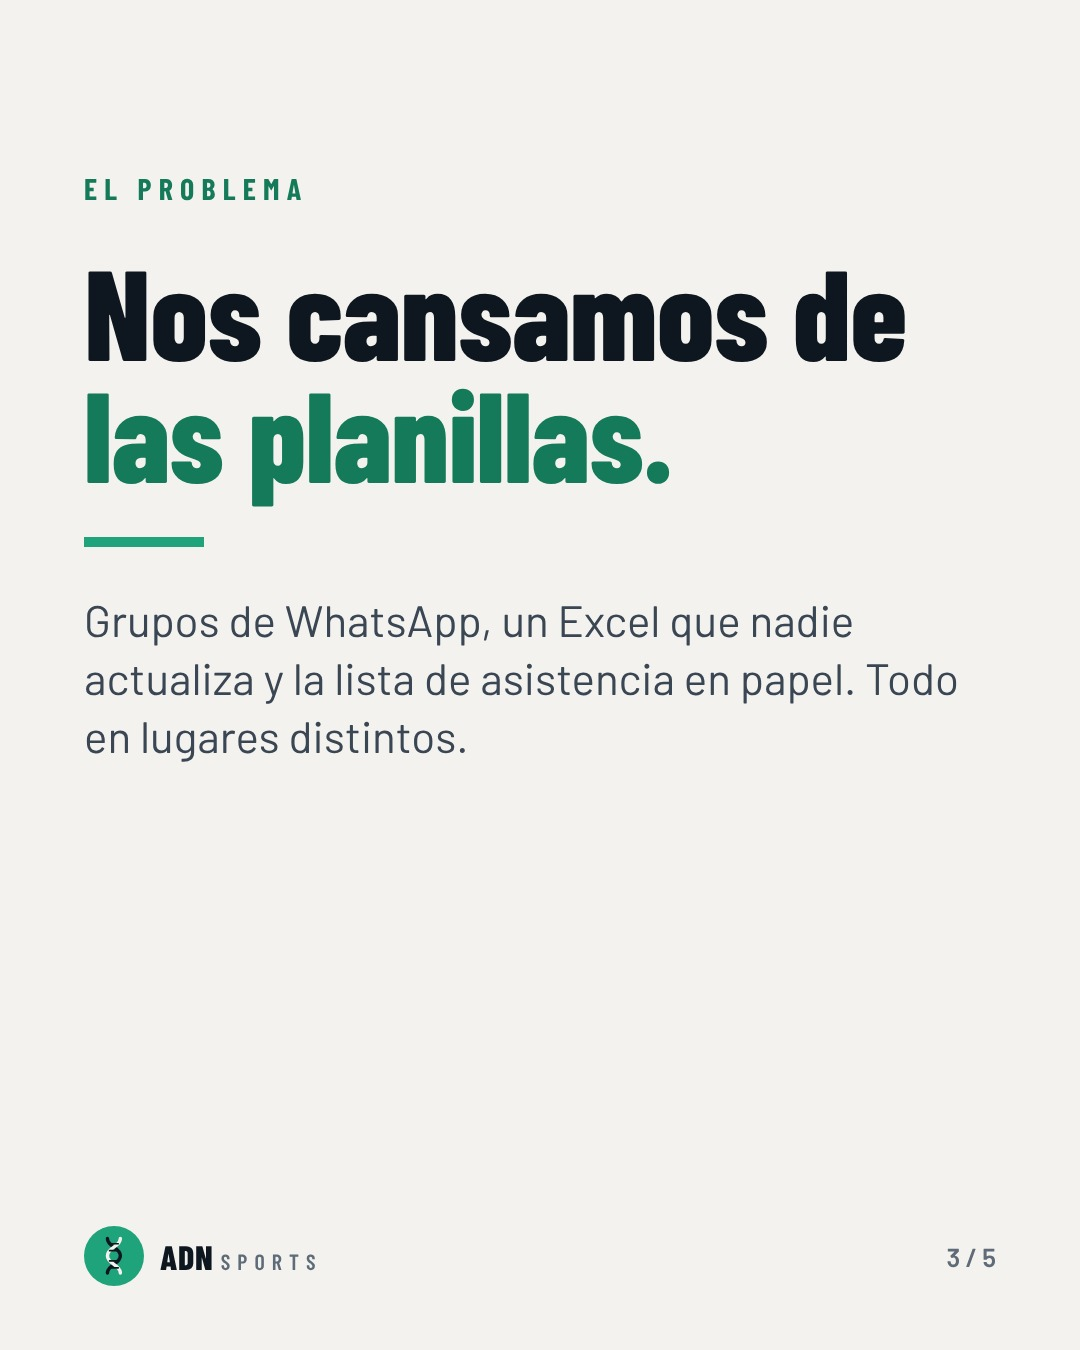
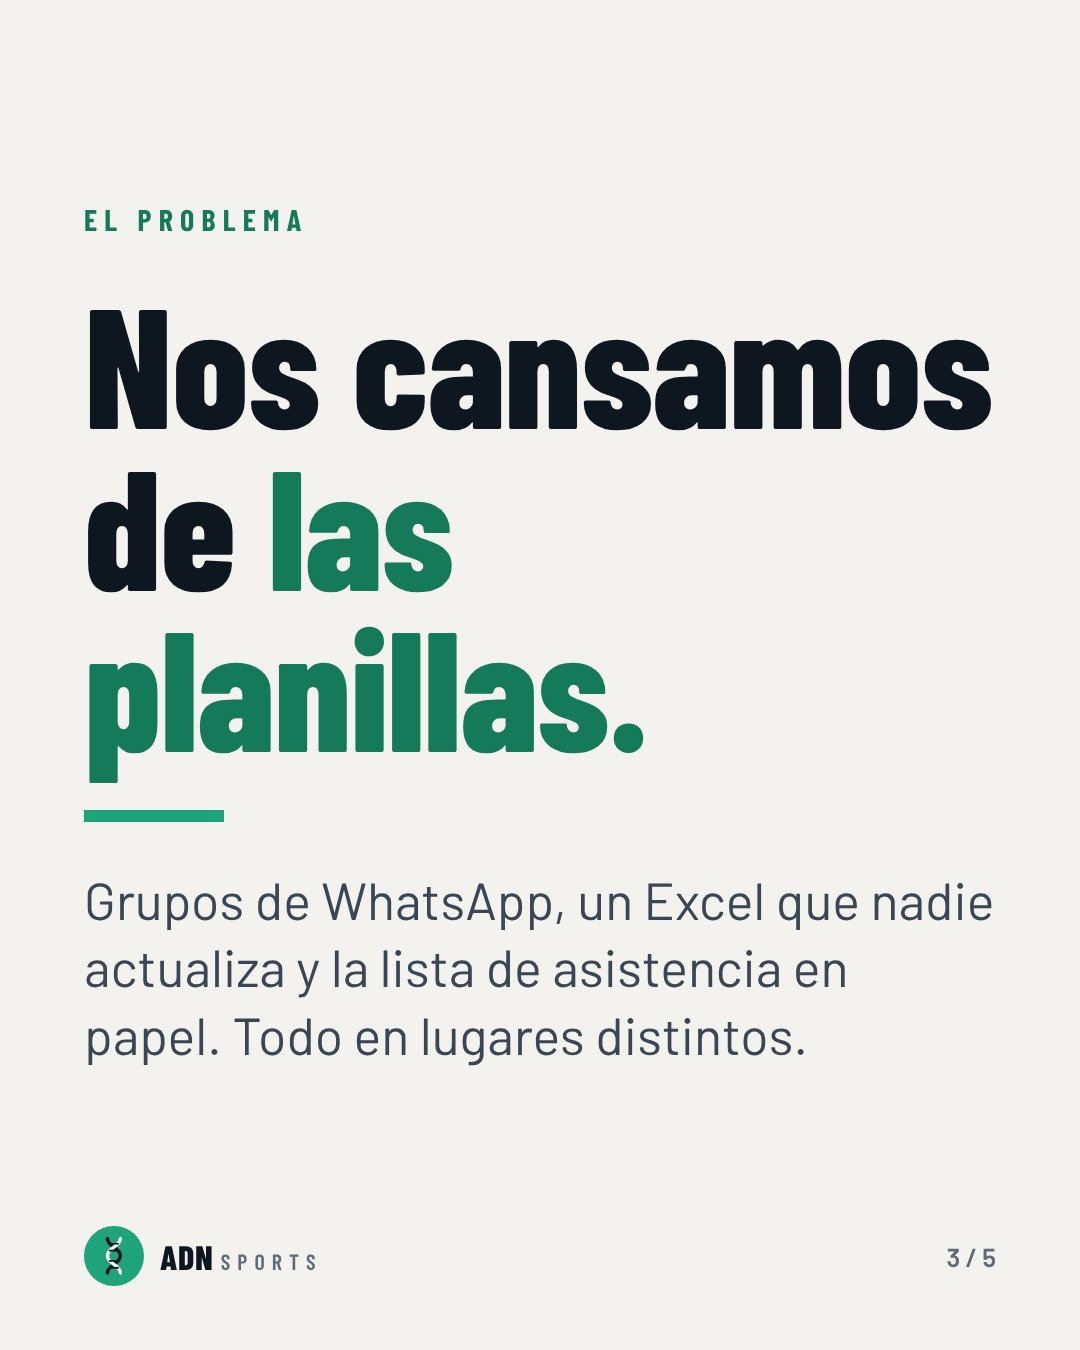
Placas de Instagram: bloques centrados, letra más grande y textos neutros
Claude-Session: https://claude.ai/code/session_01DY6iudhp7zRP8ZBDTtjtK8

Changed region(s): [[0.0611, 0.1244, 0.9167, 0.6222], [0.0611, 0.6533, 0.9167, 0.8089], [0.825, 0.4978, 0.8861, 0.5289]]

diff --git a/adn-panel/scripts/render_verde.py b/adn-panel/scripts/render_verde.py
@@ -55,17 +55,18 @@ def placa(cuerpo, pagina=None, total=None, fondo=CREMA):
     .p{{width:1080px;height:1350px;position:relative;overflow:hidden;background:{fondo};color:{NOCHE};font-family:B}}
     .t{{font-family:BC;font-weight:800;line-height:.95;letter-spacing:-.005em;margin:0}}
     .k{{font:700 30px BC;letter-spacing:.24em;color:{NARANJA};text-transform:uppercase}}
-    .s{{font:400 44px/1.32 B;color:{SUB};margin:0}}
+    .s{{font:400 52px/1.3 B;color:{SUB};margin:0}}
+    .c{{position:absolute;left:84px;right:84px;top:110px;bottom:190px;display:flex;flex-direction:column;justify-content:center}}
     .n{{color:{NARANJA}}}
     </style></head><body><div class="p">{cuerpo}{marca(pagina, total)}</div></body></html>"""
 
 
-def texto(kicker, titulo, sub, pagina, total, tam=128):
+def texto(kicker, titulo, sub, pagina, total, tam=170):
     return placa(f"""
-    <div style="position:absolute;left:84px;right:84px;top:170px;display:flex;flex-direction:column;gap:44px">
+    <div class="c" style="gap:44px">
       <div class="k">{kicker}</div>
       <h1 class="t" style="font-size:{tam}px">{titulo}</h1>
-      <div style="width:120px;height:10px;background:{VERDE}"></div>
+      <div style="width:140px;height:12px;background:{VERDE}"></div>
       <p class="s">{sub}</p>
     </div>""", pagina, total)
 
@@ -92,11 +93,11 @@ POSTS["01-presentacion"] = [
     texto("El problema", 'Nos cansamos de <span class="n">las planillas.</span>',
           "Grupos de WhatsApp, un Excel que nadie actualiza y la lista de asistencia en papel. Todo en lugares distintos.", 3, T),
     texto("La solución", 'Armamos <span class="n">el Hub.</span>',
-          "Plantel, wellness, partidos, GPS y video de los partidos en un solo lugar, desde el celular.", 4, T, 150),
+          "Plantel, wellness, partidos, GPS y video de los partidos en un solo lugar, desde el celular.", 4, T, 180),
     placa(f"""
-    <div style="position:absolute;left:84px;right:84px;top:170px;display:flex;flex-direction:column;gap:44px">
+    <div class="c" style="gap:44px">
       <div class="k">Ahora</div>
-      <h1 class="t" style="font-size:128px">Lo puede usar <span class="n">tu club.</span></h1>
+      <h1 class="t" style="font-size:150px">Lo puede usar <span class="n">tu club.</span></h1>
       <div style="width:120px;height:10px;background:{VERDE}"></div>
       <p class="s">Rugby, hockey, fútbol, básquet y más. Escribinos por mensaje directo y coordinamos una demo con los datos de tu club.</p>
       <div style="margin-top:20px;align-self:flex-start;background:{VERDE};color:{NOCHE};font:800 52px BC;padding:22px 40px;border-radius:14px;letter-spacing:.02em">@adn.sporthub</div>
@@ -105,35 +106,42 @@ POSTS["01-presentacion"] = [
 
 # ---------- 4 · Wellness en 4 preguntas ----------
 T = 6
-def pregunta(n, nombre, pregunta_txt, mira):
+def pregunta(n, nombre, pregunta_txt, mira, ejemplo):
+    escala = ''.join(
+        f'<div style="flex:1;height:120px;border-radius:16px;display:flex;align-items:center;justify-content:center;font:800 58px BC;'
+        + (f'background:{VERDE};color:{NOCHE}">' if i == ejemplo else f'background:{TARJETA};color:{NOCHE}">')
+        + f'{i}</div>' for i in range(1, 8))
     return placa(f"""
-    <div style="position:absolute;left:84px;right:84px;top:150px;display:flex;flex-direction:column;gap:40px">
-      <div style="display:flex;align-items:baseline;gap:28px">
-        <div class="t n" style="font-size:220px">{n}</div>
-        <h1 class="t" style="font-size:128px">{nombre}</h1>
+    <div class="c" style="gap:44px">
+      <div style="display:flex;align-items:baseline;gap:32px">
+        <div class="t n" style="font-size:280px">{n}</div>
+        <h1 class="t" style="font-size:150px">{nombre}</h1>
       </div>
-      <p class="s" style="font-size:50px;color:{NOCHE};font-weight:500">{pregunta_txt}</p>
-      <div style="display:flex;gap:12px;margin:8px 0">
-        {''.join(f'<div style="flex:1;height:84px;border-radius:12px;background:{TARJETA};display:flex;align-items:center;justify-content:center;font:700 44px BC;color:{NOCHE}">{i}</div>' for i in range(1, 8))}
+      <p class="s" style="font-size:58px;color:{NOCHE};font-weight:500">{pregunta_txt}</p>
+      <div>
+        <div style="display:flex;gap:12px">{escala}</div>
+        <div style="display:flex;justify-content:space-between;font:600 30px B;color:{GRIS};margin-top:14px"><span>1 · peor</span><span>7 · mejor</span></div>
       </div>
-      <p class="s"><b style="color:{NOCHE};font-weight:600">Qué mirar:</b> {mira}</p>
+      <div style="background:#FFFFFF;border-left:10px solid {VERDE};border-radius:0 16px 16px 0;padding:32px 36px">
+        <p class="s" style="font-size:46px"><b style="color:{NOCHE};font-weight:600">Qué mirar:</b> {mira}</p>
+      </div>
     </div>""", n + 1, T)
 
 POSTS["04-wellness"] = [
     placa(f"""
-    <div style="position:absolute;left:84px;right:84px;top:200px;display:flex;flex-direction:column;gap:48px">
+    <div class="c" style="gap:48px">
       <div class="k">Método</div>
-      <h1 class="t" style="font-size:170px">Wellness en <span class="n">4 preguntas.</span></h1>
-      <p class="s">Lo que todo staff debería saber de cada jugador antes de que pise la cancha.</p>
+      <h1 class="t" style="font-size:190px">Wellness en <span class="n">4 preguntas.</span></h1>
+      <p class="s">Lo que todo staff debería saber de cada jugador antes de entrenar o jugar.</p>
     </div>""", 1, T),
-    pregunta(1, "Sueño", "¿Cómo dormiste anoche?", "dos o tres noches malas seguidas pesan más que una sola."),
-    pregunta(2, "Estrés", "¿Cuánto estrés tenés hoy, entre trabajo, estudio y casa?", "el deporte amateur se juega después de una jornada entera."),
-    pregunta(3, "Dolor muscular", "¿Cuánto dolor muscular sentís?", "si dura más de 48 horas después del partido, hay que hablar."),
-    pregunta(4, "Fatiga", "¿Qué tan cansado llegás al entrenamiento?", "comparalo siempre contra el promedio de ese mismo jugador."),
+    pregunta(1, "Sueño", "¿Cómo dormiste anoche?", "dos o tres noches malas seguidas pesan más que una sola.", 5),
+    pregunta(2, "Estrés", "¿Cuánto estrés tenés hoy, entre trabajo, estudio y casa?", "el deporte amateur se juega después de una jornada entera.", 3),
+    pregunta(3, "Dolor muscular", "¿Cuánto dolor muscular sentís?", "si dura más de 48 horas después del partido, hay que hablar.", 4),
+    pregunta(4, "Fatiga", "¿Qué tan cansado llegás al entrenamiento?", "comparalo siempre contra el promedio de ese mismo jugador.", 6),
     placa(f"""
-    <div style="position:absolute;left:84px;right:84px;top:200px;display:flex;flex-direction:column;gap:48px">
+    <div class="c" style="gap:48px">
       <div class="k">La clave</div>
-      <h1 class="t" style="font-size:150px">No hace falta un laboratorio. <span class="n">Hace falta constancia.</span></h1>
+      <h1 class="t" style="font-size:165px">No hace falta un laboratorio. <span class="n">Hace falta constancia.</span></h1>
       <p class="s">Las mismas 4 preguntas, cada día de entrenamiento. Guardá esta publicación para tu próxima pretemporada.</p>
     </div>""", 6, T),
 ]
@@ -144,11 +152,11 @@ POSTS["06-video"] = [
     <div style="position:absolute;left:84px;right:84px;top:170px;display:flex;flex-direction:column;gap:30px">
       <div style="display:flex;align-items:center;gap:20px;padding-bottom:26px;border-bottom:2px solid #D6D1C8">
         <div style="width:84px;height:84px;border-radius:50%;background:#1FA37A;color:#0E1620;display:flex;align-items:center;justify-content:center;font:800 36px BC">ST</div>
-        <div><div style="font:600 40px B">Staff Primera 🏉</div><div style="font:400 30px B;color:{GRIS}">23 participantes</div></div>
+        <div><div style="font:600 40px B">Staff Primera</div><div style="font:400 30px B;color:{GRIS}">23 participantes</div></div>
       </div>
       <div style="align-self:flex-start;max-width:820px;background:#FFFFFF;border:2px solid #E2DDD3;border-radius:8px 32px 32px 32px;padding:34px 40px">
         <div style="font:600 30px B;color:{NARANJA};margin-bottom:10px">Entrenador de backs</div>
-        <div style="font:500 62px/1.2 B">¿Alguien tiene el video del sábado?</div>
+        <div style="font:500 62px/1.2 B">¿Alguien tiene el video del partido?</div>
         <div style="font:400 28px B;color:{GRIS};text-align:right;margin-top:14px">Lunes 21:47</div>
       </div>
       <div style="align-self:flex-start;font:500 34px B;color:{GRIS};padding-left:8px">Visto por 23 · 0 respuestas</div>
@@ -161,19 +169,25 @@ POSTS["06-video"] = [
 # ---------- 8 · Qué mirar del rival ----------
 T = 6
 def item(n, nombre, preguntas):
+    tarjetas = ''.join(
+        f'<div style="background:#FFFFFF;border-left:10px solid {VERDE};border-radius:0 16px 16px 0;padding:30px 36px">'
+        f'<p class="s" style="font-size:50px;color:{NOCHE}">{q}</p></div>' for q in preguntas)
+    tam = 150 if len(nombre) > 10 else 190
     return placa(f"""
-    <div style="position:absolute;left:84px;right:84px;top:170px;display:flex;flex-direction:column;gap:44px">
+    <div class="c" style="gap:44px">
       <div class="k">Análisis del rival · {n} de 4</div>
-      <h1 class="t" style="font-size:180px">{nombre}</h1>
-      <div style="width:120px;height:10px;background:{VERDE}"></div>
-      {''.join(f'<p class="s" style="display:flex;gap:24px"><span class="n" style="font-weight:600">—</span><span>{q}</span></p>' for q in preguntas)}
+      <div style="display:flex;align-items:baseline;gap:32px">
+        <div class="t n" style="font-size:280px">{n}</div>
+        <h1 class="t" style="font-size:{tam}px">{nombre}</h1>
+      </div>
+      <div style="display:flex;flex-direction:column;gap:22px">{tarjetas}</div>
     </div>""", n + 1, T)
 
 POSTS["08-rival"] = [
     placa(f"""
-    <div style="position:absolute;left:84px;right:84px;top:200px;display:flex;flex-direction:column;gap:48px">
+    <div class="c" style="gap:48px">
       <div class="k">Rugby y método</div>
-      <h1 class="t" style="font-size:160px">Qué mirar del rival <span class="n">antes del sábado.</span></h1>
+      <h1 class="t" style="font-size:175px">Qué mirar del rival <span class="n">antes del partido.</span></h1>
       <p class="s">Tener el video sirve si sabés qué buscar. Cuatro cosas que miramos de cada rival.</p>
     </div>""", 1, T),
     item(1, "Scrum", ["¿Empuja recto o gira?", "¿Cuántas veces sale por octavo y por dónde?"]),
@@ -181,9 +195,9 @@ POSTS["08-rival"] = [
     item(3, "Salidas", ["¿Patea largo, corto o juega desde su campo?", "¿Quién persigue y quién recibe?"]),
     item(4, "Defensa en las 22", ["¿Sube rápido o se desliza?", "¿Dónde quedan los huecos cuando se cansa?"]),
     placa(f"""
-    <div style="position:absolute;left:84px;right:84px;top:200px;display:flex;flex-direction:column;gap:48px">
+    <div class="c" style="gap:48px">
       <div class="k">Tu turno</div>
-      <h1 class="t" style="font-size:170px">¿Qué <span class="n">agregarías vos?</span></h1>
+      <h1 class="t" style="font-size:200px">¿Qué <span class="n">agregarías vos?</span></h1>
       <p class="s">Dejalo en los comentarios. Las mejores ideas van a la próxima publicación.</p>
     </div>""", 6, T),
 ]
